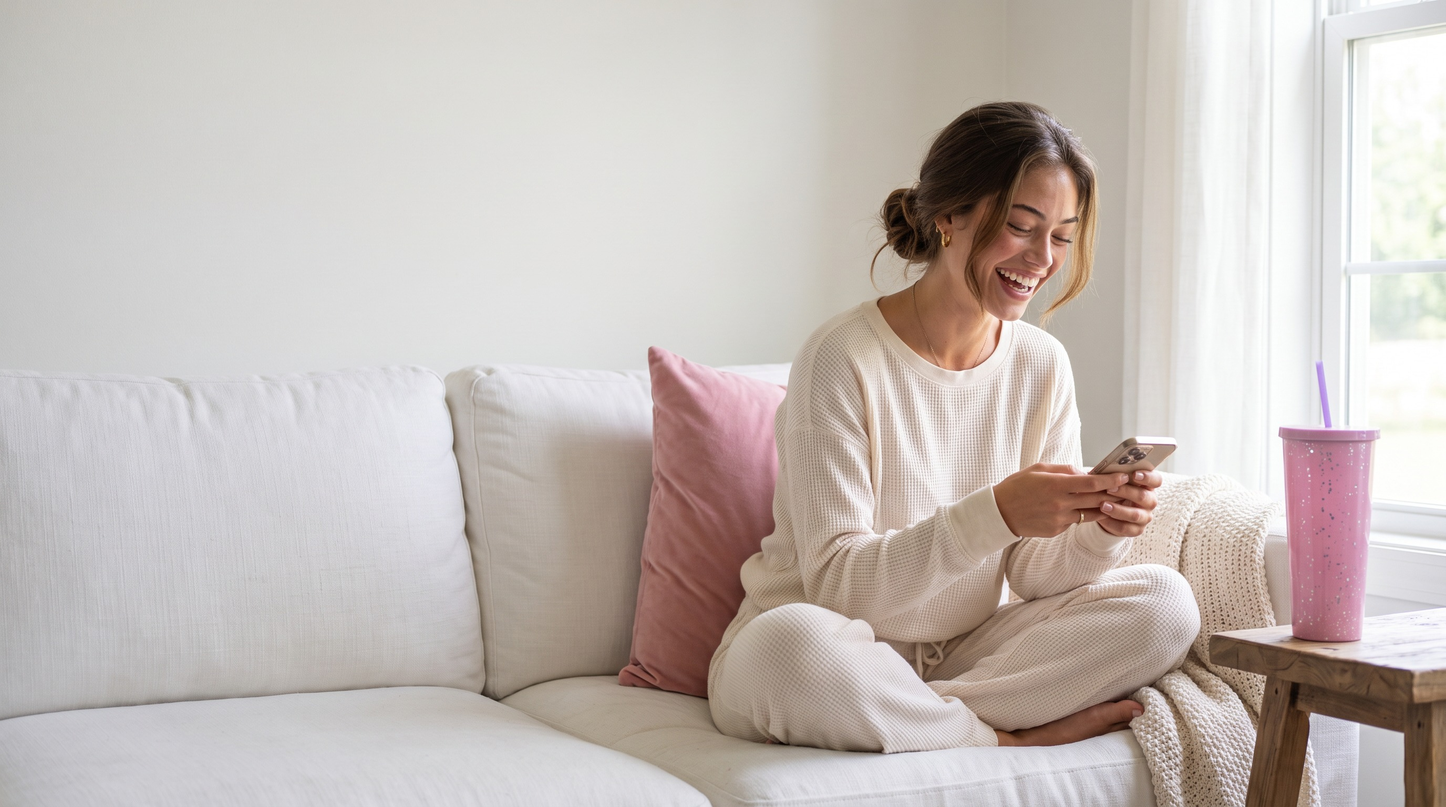
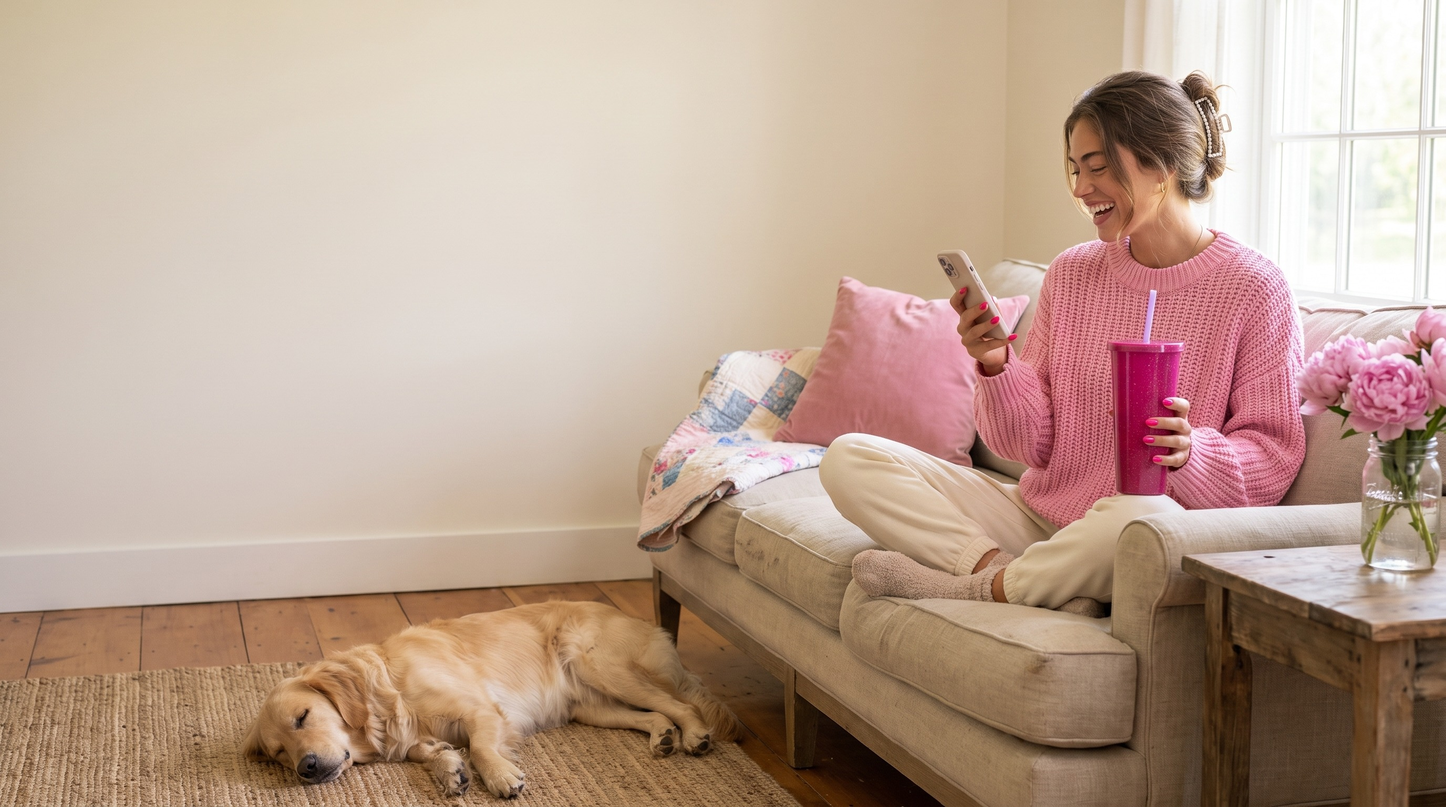
Skool About gallery: drop gradients and glass, rebuild photos in Tommy Kate's world
Solid pink and paper cards per src/styles/edit.css; new photos copied from
the world file (loft, blush kitchen, garden, living room, chipped porch).
Every graphic checked at full size and defects fixed before sending.

Claude-Session: https://claude.ai/code/session_01PPH1LEnvj2mFhkhq6X5V8q

diff --git a/ops/cloud-output/about-gallery-2026-10/README.md b/ops/cloud-output/about-gallery-2026-10/README.md
@@ -25,21 +25,28 @@ They break standing rules in `ops/cloud-kit/TDIE_DESIGN_RULES.md`:
 
 None of these four files exist in the repo; they were not made from this folder.
 
-## How this set follows the rules
+## How this set follows the rules (rebuilt 11 October 2026, second pass)
 
-- **Approved build (design rules §2):** cream base, Tommy Kate on the right in a different place in her world each time, cream scrim on the left holding the copy, frosted white cards with a thin gold line, one glossy hot pink hero card per graphic, round tilted stickers, hot pink pill CTA.
-- **THE LOOK (Decision 128):** Newsreader SemiBold upright headlines, Inter for everything else, no italics, no brown, no full pink wash, sparkle on the hero card and the foil callout only.
-- **Photos:** Nano Banana Pro at 2K on Higgsfield, avatar seed attached, "this exact woman" opening, no locked feature written. Every photo has her glitter-flecked candy pink tumbler with the lavender straw, visible and not covered by copy. No logos, no plushies (sales graphic), no text in the photos.
-- **Copy:** from `ops/cloud-output/SKOOL_ABOUT_CONVERSION_AUDIT.md`. Pinterest Foundations™ (live course), never The Pinterest Edit (draft). The Ads Edit™ has no price. The Value Vault is "guides à la carte" for Standard. $171 = $37 + $37 + $97. No price-increase line (it ended 30 September).
-- **Look-before-you-send:** every graphic was rendered and checked at full size; defects found and fixed are listed below.
+The first pass of this set was rejected by Jodie the same day: hot pink gradient cards, glass and glow effects, and photos that were not Tommy Kate enough (white modern kitchen and living room, a beam down the loft wall, a clean new porch, none of her named props). This pass fixes both.
 
-### Defects found and fixed before sending
+- **No gradients, no glass, no glow.** Follows the site's own system in `src/styles/edit.css` ("No glass, no glow, no gradients on buttons. Depth comes from scale, crop and contrast."): solid Signature Hot Pink cards and buttons, white paper cards with a Muted Gold hairline and a plain lift shadow, gold-hairline kickers. The only gradient left is the cream fade from the copy into the photo, which is the approved 25 September layout. No fake sparkle in the design; the one sparkle moment is in each photo.
+- **Type:** Newsreader SemiBold upright headlines, Inter for everything else, no italics, no brown.
+- **Photos copied from her world file** (`ops/cloud-kit/TDIE_DFY_CALENDAR_TOMMY_KATE_WORLD.md` and the 4 Oct handoff rules), Nano Banana Pro 2K on Higgsfield, avatar seed attached, "this exact woman" opening, no locked feature written:
+  - **Hero, pink attic loft:** ivy-wrapped ceiling beams, plush pink shag rug, pastel pink gaming desk, glass-panel PC glowing pink, Hello Kitty and Kuromi plushies, the grey British Shorthair cat, lavender controller with the strawberry charm, candy-pink headphones, scrunchie, fuzzy socks.
+  - **Same effort, farmhouse kitchen:** blush cabinets, butcher-block island, copper pans with patina, the Player Two? mug, lilacs in a mason jar, gold claw clip, heart necklace, the retriever with his rope toy.
+  - **Roadmap, outside:** raised garden beds, split rail fencing, chicken coop with hens, wildflower field, sage barn coat, ribbed tank, vintage denim, worn brown farm boots, candy-pink gardening gloves, the retriever.
+  - **Member wins, living room:** candy-pink velvet pillow, a patchwork quilt someone uses, peonies, rhinestone claw clip (the sparkle), hot pink manicure, fuzzy socks, the retriever.
+  - **Tiers, porch:** chipped white paint, rocking chair with a patchwork quilt, potted herbs, lilacs, pasture and split rail fence, glitter pink cowboy boots (the sparkle), the retriever.
+  - Her glitter-flecked candy-pink tumbler with the lavender straw is in every photo and never hidden by copy. No logos, no text in any photo except Player Two? on the mug.
+- **Plushies note:** the world file requires the Hello Kitty and Kuromi plushies whenever the loft is in frame, and allows them as her home plushies; they are background props in the hero, not a product or a subject.
+- **Copy:** unchanged from the first pass (audit + Jodie's Roadmap copy word for word).
 
-- Headline running over her face (Same effort) → two-line headline.
-- Stickers over her body or over copy (Hero, Same effort, Member wins) → moved into clear space.
-- Words alone on a line ("alone", "to sell.", "AI / Twin") → wrapping fixed.
-- "Start here" tag in the headline font → Inter.
-- Photos rejected and re-generated: tumbler clear and pale (hero, kitchen); tumbler hidden under the copy (living room, porch twice, kitchen); brand logo on headphones (hero); logo on laptop (porch). Rejected files are in `rejected/` (not committed).
+### Defects found at full size and fixed before sending (second pass)
+
+- Photos rejected and regenerated: pale or see-through tumbler (loft, living room twice), Xbox logo on the controller, Apple logo on the laptop (porch twice), her leg and boots under the tier cards (porch).
+- Cream fade had hard vertical edges (gradient stops out of order) → fixed.
+- Words alone on a line ("a sale", "Audience / first", "Your / offer", third chip) → fixed.
+- Cards touching the Player Two? mug, her basket and gloves, the dog's head → photos repositioned or cards narrowed.
 
 ## Skool description (paste into the About text box)
 
